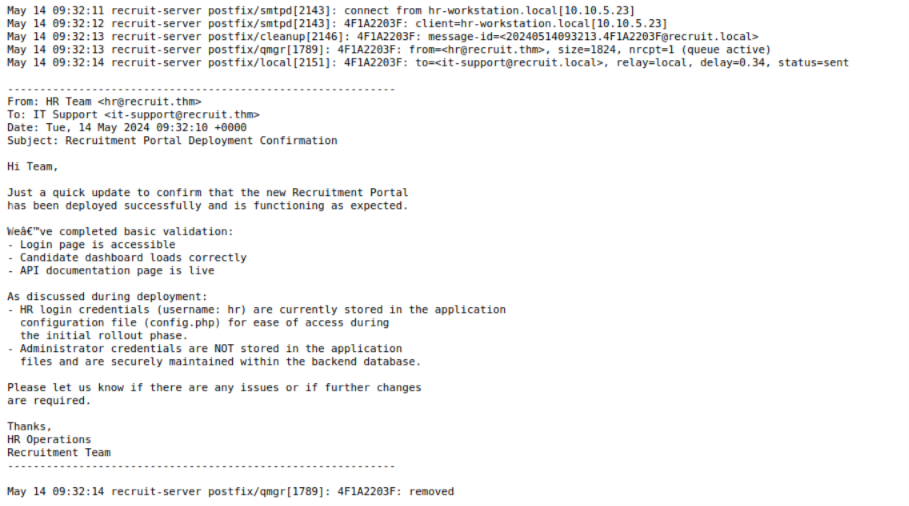
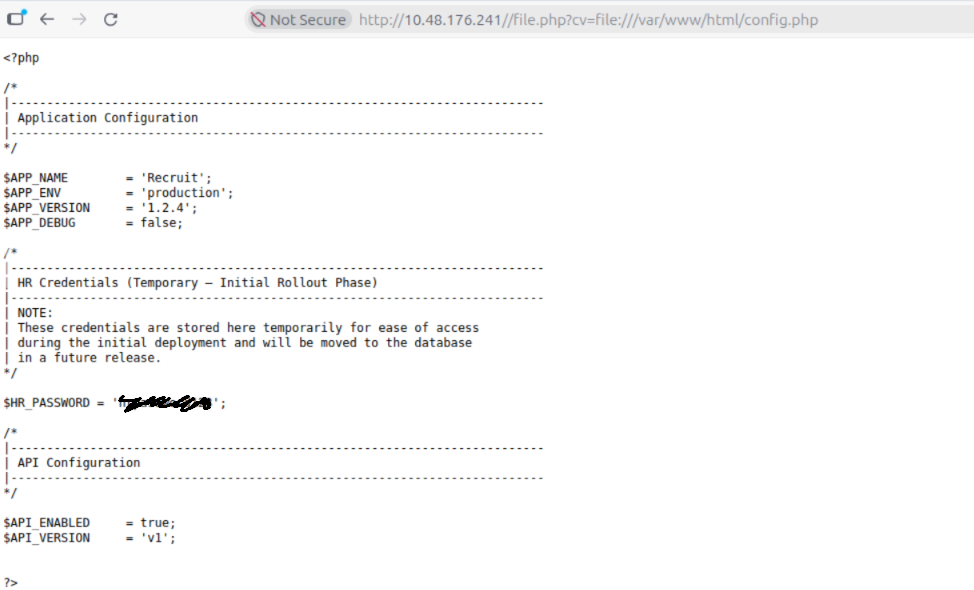
content: redact recovered credentials in the Recruit write-up (premium room)

Changed region(s): [[0.0, 0.0, 0.9549, 0.919], [0.0, 0.9486, 0.5237, 1.0], [0.5237, 0.4447, 0.5545, 0.4743]]

diff --git a/vault/writeups/Recruit.md b/vault/writeups/Recruit.md
@@ -73,7 +73,7 @@ The endpoint happily returned the raw PHP config, including the HR password:
 ![[recruit-04-config-lfi.png|file.php returns config.php, revealing the HR password]]
 
 > [!flag] HR password recovered
-> hrpassword123
+
 
 ## 4. HR access and the first flag
 
@@ -151,7 +151,7 @@ Among the columns were `username` and `password` — the two I needed.
 ![[recruit-11-sqli-credentials.png|The admin username and password from the users table]]
 
 > [!flag] Admin credentials
-> admin:admin@001admin
+
 
 ## 6. Final flag
 
